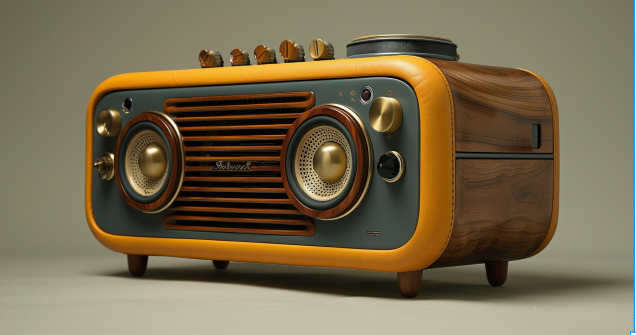
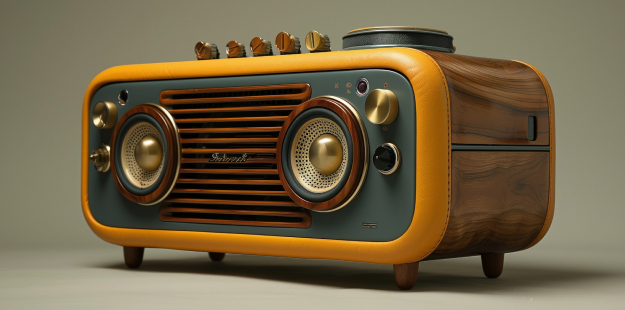
home page, footer navbar ok

diff --git a/src/pages/home/components/SignupSection.jsx b/src/pages/home/components/SignupSection.jsx
@@ -3,11 +3,18 @@ import { Box, Button, Typography, TextField, Paper } from '@mui/material';
 import { useTheme } from '@mui/material/styles';
 import backgroundImage from '../../../assets/moviola.png'; // Asegúrate de que la ruta sea correcta
 import GoogleIcon from '@mui/icons-material/Google'; // Importar el ícono de Google
+import { useNavigate } from 'react-router-dom';
+
+
 const SignupSection = () => {
   const theme = useTheme();
+  const navigate = useNavigate();
+  const clickLogin = () => {
+    navigate('/login');
+  };
 
   return (
-    <Box 
+    <Box
       sx={{
         position: 'relative',
         backgroundImage: `url(${backgroundImage})`,
@@ -25,12 +32,12 @@ const SignupSection = () => {
           left: 0,
           width: '100%',
           height: '100%',
-          backgroundColor: theme.palette.mode === 'dark' ? 'rgba(0,0,0,0.6)' : 'rgba(255,255,255,0.2)',
+          backgroundColor: theme.palette.mode === 'dark' ? 'rgba(0,0,0,0.1)' : 'rgba(255,255,255,0.1)',
           zIndex: 1,
         },
       }}
     >
-      <Paper 
+      <Paper
         sx={{
           position: 'relative',
           zIndex: 2,
@@ -43,20 +50,20 @@ const SignupSection = () => {
         }}
       >
         <Typography variant="h4" align="center" gutterBottom>
-          Unete
+          ¡Únete!
         </Typography>
         <Typography variant="subtitle1" align="center" gutterBottom>
-          No te quedes afuera!!
+          ¡No te quedes afuera!
         </Typography>
         <Button
           variant="contained"
           sx={{
             width: '100%',
             marginBottom: '10px',
-            backgroundColor: '#f5f5f5',
+            backgroundColor: theme.palette.background.default,
             color: '#555',
             '&:hover': {
-              backgroundColor: '#e0e0e0',
+              backgroundColor:'gray' ,
             },
             textTransform: 'none',
             fontSize: '16px',
@@ -66,57 +73,14 @@ const SignupSection = () => {
             justifyContent: 'center',
           }}
         >
-          <img src={GoogleIcon} alt="Google Icon" style={{ marginRight: '8px', width: '20px', height: '20px' }} />
+          <GoogleIcon sx={{ marginRight: '8px' }} />
           Entra con la cuenta de Google
         </Button>
         <Typography variant="body2" gutterBottom align="center">
           o
         </Typography>
-        <TextField
-          label="Entra con Email"
-          variant="outlined"
-          fullWidth
-          sx={{
-            marginBottom: '10px',
-            '& .MuiInputLabel-root': {
-              color: theme.palette.text.primary,
-            },
-            '& .MuiOutlinedInput-root': {
-              '& fieldset': {
-                borderColor: theme.palette.primary.main,
-              },
-              '&:hover fieldset': {
-                borderColor: theme.palette.primary.light,
-              },
-              '&.Mui-focused fieldset': {
-                borderColor: theme.palette.primary.main,
-              },
-            },
-          }}
-        />
-        <TextField
-          label="Direccion de Email"
-          variant="outlined"
-          fullWidth
-          sx={{
-            marginBottom: '20px',
-            '& .MuiInputLabel-root': {
-              color: theme.palette.text.primary,
-            },
-            '& .MuiOutlinedInput-root': {
-              '& fieldset': {
-                borderColor: theme.palette.primary.main,
-              },
-              '&:hover fieldset': {
-                borderColor: theme.palette.primary.light,
-              },
-              '&.Mui-focused fieldset': {
-                borderColor: theme.palette.primary.main,
-              },
-            },
-          }}
-        />
-        <Button
+        
+        <Button onClick={clickLogin}
           variant="contained"
           sx={{
             width: '100%',
@@ -127,10 +91,10 @@ const SignupSection = () => {
             },
           }}
         >
-         Entrar con Email
+          Entrar con Email
         </Button>
         <Typography variant="caption" display="block" sx={{ marginTop: '10px', color: theme.palette.text.primary, textAlign: 'center' }}>
-          Esta de acuerdo con la politicas de privacidad
+          Estás de acuerdo con la política de privacidad
         </Typography>
       </Paper>
     </Box>
@@ -138,3 +102,4 @@ const SignupSection = () => {
 };
 
 export default SignupSection;
+

diff --git a/src/components/layout/Navbar.jsx b/src/components/layout/Navbar.jsx
@@ -151,31 +151,31 @@ export const Navbar = () => {
 
         <Hidden mdUp>
           <Drawer anchor="left" open={menuOpen} onClose={closeMenu}>
-            <List sx={{ width: "250px", bgcolor: theme.palette.primary.main }}>
-              <ListItem component={Link} to="/albums" onClick={closeMenu}>
+            <List sx={{ width: "250px", bgcolor: theme.palette.background.paper }}>
+              <ListItem button component={Link} to="/albums" onClick={closeMenu}>
                 <ListItemIcon>
-                  <AlbumIcon />
+                  <AlbumIcon sx={{ color: theme.palette.primary.main }} />
                 </ListItemIcon>
-                <ListItemText primary="Álbumes" />
+                <ListItemText primary="Álbumes" sx={{ color: theme.palette.text.primary }} />
               </ListItem>
-              <ListItem component={Link} to="/tracks" onClick={closeMenu}>
+              <ListItem button component={Link} to="/tracks" onClick={closeMenu}>
                 <ListItemIcon>
-                  <MusicNoteIcon />
+                  <MusicNoteIcon sx={{ color: theme.palette.primary.main }} />
                 </ListItemIcon>
-                <ListItemText primary="Canciones" />
+                <ListItemText primary="Canciones" sx={{ color: theme.palette.text.primary }} />
               </ListItem>
-              <ListItem component={Link} to="/tracks/register" onClick={closeMenu}>
+              <ListItem button component={Link} to="/tracks/register" onClick={closeMenu}>
                 <ListItemIcon>
-                  <CloudUploadIcon />
+                  <CloudUploadIcon sx={{ color: theme.palette.primary.main }} />
                 </ListItemIcon>
-                <ListItemText primary="Subir" />
+                <ListItemText primary="Subir" sx={{ color: theme.palette.text.primary }} />
               </ListItem>
               {login.isAdmin && (
-                <ListItem component={Link} to="/users" onClick={closeMenu}>
+                <ListItem button component={Link} to="/users" onClick={closeMenu}>
                   <ListItemIcon>
-                    <PeopleIcon />
+                    <PeopleIcon sx={{ color: theme.palette.text.primary }} />
                   </ListItemIcon>
-                  <ListItemText primary="Usuarios" />
+                  <ListItemText primary="Usuarios" sx={{ color: theme.palette.text.primary }} />
                 </ListItem>
               )}
             </List>
@@ -248,3 +248,4 @@ export const Navbar = () => {
     </AppBar>
   );
 };
+

diff --git a/src/components/layout/Footer.jsx b/src/components/layout/Footer.jsx
@@ -10,7 +10,7 @@ export const Footer = () => {
     <Box
       sx={{
         display: 'flex',
-        flexDirection: 'row',
+        flexDirection: 'column',
         justifyContent: 'center',
         alignItems: 'center',
         bgcolor: 'background.paper',
@@ -19,9 +19,48 @@ export const Footer = () => {
         textAlign: 'center',
       }}
     >
-      
+      <Box
+        sx={{
+          display: 'flex',
+          justifyContent: 'space-between',
+          width: '100%',
+          maxWidth: 1200,
+          p: 2,
+        }}
+      >
+        <Box sx={{ textAlign: 'left' }}>
+          <Typography variant="subtitle1" gutterBottom>
+            Company
+          </Typography>
+          <Typography variant="body2">About</Typography>
+          <Typography variant="body2">Careers</Typography>
+          <Typography variant="body2">Newsroom</Typography>
+        </Box>
+        <Box sx={{ textAlign: 'left' }}>
+          <Typography variant="subtitle1" gutterBottom>
+            Highlights
+          </Typography>
+          <Typography variant="body2">Speed</Typography>
+          <Typography variant="body2">Playlists</Typography>
+          <Typography variant="body2">Updates</Typography>
+        </Box>
+        <Box sx={{ textAlign: 'left' }}>
+          <Typography variant="subtitle1" gutterBottom>
+            Social
+          </Typography>
+          <Typography variant="body2">Twitter</Typography>
+          <Typography variant="body2">Instagram</Typography>
+          <Typography variant="body2">Threads</Typography>
+        </Box>
+        <Box sx={{ textAlign: 'left' }}>
+          <Typography variant="subtitle1" gutterBottom>
+            Legal
+          </Typography>
+          <Typography variant="body2">Terms</Typography>
+          <Typography variant="body2">Privacy</Typography>
+        </Box>
+      </Box>
       <CopyrightRight sx={{ mt: 5 }} />
-      
     </Box>
   );
 };

diff --git a/src/soundApp.jsx b/src/soundApp.jsx
@@ -13,7 +13,7 @@ const theme = createTheme({
       paper: '#252231',
     },
     text: {
-      primary: '#EEEEEE',
+      primary: '#CDC8C8',
       secondary: '#008A90',
     },
     primary: {
